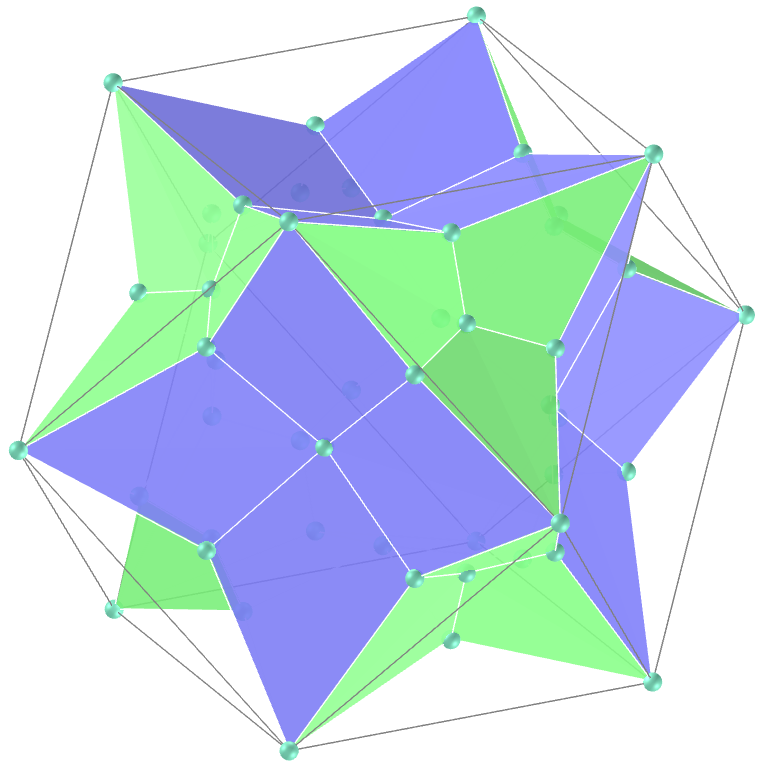
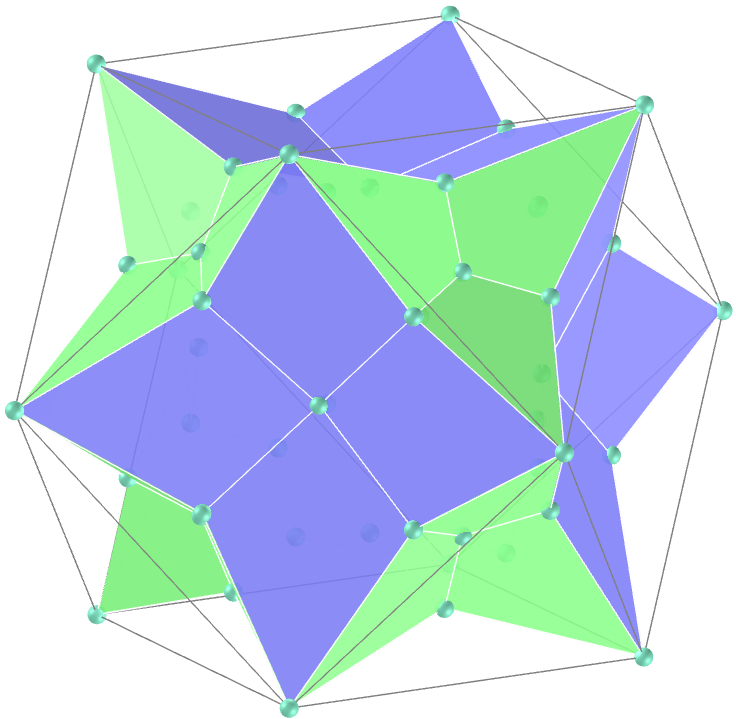
update

diff --git a/kites/vr/Icosidodecahedron.htm b/kites/vr/Icosidodecahedron.htm
@@ -67,73 +67,73 @@
 			<a-sphere mixin='esfera' position='1.130467081 0 0.698667081'></a-sphere>
 			<a-sphere mixin='esfera' position='0.781133541 0.565233541 0.914567081'></a-sphere>
 			<a-sphere mixin='esfera' position='0.2159 0.349333541 1.263900622'></a-sphere>
-			<a-sphere mixin='esfera' position='0.485829606 0 0.786088817'></a-sphere>
+			<a-sphere mixin='esfera' position='0.4965884424 0 0.8034969801'></a-sphere>
 			<a-sphere mixin='esfera' position='-0.2159 0.349333541 1.263900622'></a-sphere>
 			<a-sphere mixin='esfera' position='-0.781133541 0.565233541 0.914567081'></a-sphere>
 			<a-sphere mixin='esfera' position='-1.130467081 0 0.698667081'></a-sphere>
 			<a-sphere mixin='esfera' position='-0.781133541 -0.565233541 0.914567081'></a-sphere>
 			<a-sphere mixin='esfera' position='-0.2159 -0.349333541 1.263900622'></a-sphere>
-			<a-sphere mixin='esfera' position='-0.485829606 -0 0.786088817'></a-sphere>
+			<a-sphere mixin='esfera' position='-0.4965884424 -0 0.8034969801'></a-sphere>
 			<a-sphere mixin='esfera' position='0.2159 0.349333541 -1.263900622'></a-sphere>
 			<a-sphere mixin='esfera' position='0.781133541 0.565233541 -0.914567081'></a-sphere>
 			<a-sphere mixin='esfera' position='1.130467081 0 -0.698667081'></a-sphere>
 			<a-sphere mixin='esfera' position='0.781133541 -0.565233541 -0.914567081'></a-sphere>
 			<a-sphere mixin='esfera' position='0.2159 -0.349333541 -1.263900622'></a-sphere>
-			<a-sphere mixin='esfera' position='0.485829606 -0 -0.786088817'></a-sphere>
+			<a-sphere mixin='esfera' position='0.4965884424 -0 -0.8034969801'></a-sphere>
 			<a-sphere mixin='esfera' position='-0.2159 -0.349333541 -1.263900622'></a-sphere>
 			<a-sphere mixin='esfera' position='-0.781133541 -0.565233541 -0.914567081'></a-sphere>
 			<a-sphere mixin='esfera' position='-1.130467081 0 -0.698667081'></a-sphere>
 			<a-sphere mixin='esfera' position='-0.781133541 0.565233541 -0.914567081'></a-sphere>
 			<a-sphere mixin='esfera' position='-0.2159 0.349333541 -1.263900622'></a-sphere>
-			<a-sphere mixin='esfera' position='-0.485829606 0 -0.786088817'></a-sphere>
+			<a-sphere mixin='esfera' position='-0.4965884424 0 -0.8034969801'></a-sphere>
 			<a-sphere mixin='esfera' position='1.263900622 0.2159 -0.349333541'></a-sphere>
 			<a-sphere mixin='esfera' position='0.914567081 0.781133541 -0.565233541'></a-sphere>
 			<a-sphere mixin='esfera' position='0.698667081 1.130467081 0'></a-sphere>
 			<a-sphere mixin='esfera' position='0.914567081 0.781133541 0.565233541'></a-sphere>
 			<a-sphere mixin='esfera' position='1.263900622 0.2159 0.349333541'></a-sphere>
-			<a-sphere mixin='esfera' position='0.786088817 0.485829606 0'></a-sphere>
+			<a-sphere mixin='esfera' position='0.8034969801 0.4965884424 0'></a-sphere>
 			<a-sphere mixin='esfera' position='1.263900622 -0.2159 0.349333541'></a-sphere>
 			<a-sphere mixin='esfera' position='0.914567081 -0.781133541 0.565233541'></a-sphere>
 			<a-sphere mixin='esfera' position='0.698667081 -1.130467081 0'></a-sphere>
 			<a-sphere mixin='esfera' position='0.914567081 -0.781133541 -0.565233541'></a-sphere>
 			<a-sphere mixin='esfera' position='1.263900622 -0.2159 -0.349333541'></a-sphere>
-			<a-sphere mixin='esfera' position='0.786088817 -0.485829606 -0'></a-sphere>
+			<a-sphere mixin='esfera' position='0.8034969801 -0.4965884424 -0'></a-sphere>
 			<a-sphere mixin='esfera' position='-1.263900622 0.2159 0.349333541'></a-sphere>
 			<a-sphere mixin='esfera' position='-0.914567081 0.781133541 0.565233541'></a-sphere>
 			<a-sphere mixin='esfera' position='-0.698667081 1.130467081 0'></a-sphere>
 			<a-sphere mixin='esfera' position='-0.914567081 0.781133541 -0.565233541'></a-sphere>
 			<a-sphere mixin='esfera' position='-1.263900622 0.2159 -0.349333541'></a-sphere>
-			<a-sphere mixin='esfera' position='-0.786088817 0.485829606 -0'></a-sphere>
+			<a-sphere mixin='esfera' position='-0.8034969801 0.4965884424 -0'></a-sphere>
 			<a-sphere mixin='esfera' position='-1.263900622 -0.2159 -0.349333541'></a-sphere>
 			<a-sphere mixin='esfera' position='-0.914567081 -0.781133541 -0.565233541'></a-sphere>
 			<a-sphere mixin='esfera' position='-0.698667081 -1.130467081 0'></a-sphere>
 			<a-sphere mixin='esfera' position='-0.914567081 -0.781133541 0.565233541'></a-sphere>
 			<a-sphere mixin='esfera' position='-1.263900622 -0.2159 0.349333541'></a-sphere>
-			<a-sphere mixin='esfera' position='-0.786088817 -0.485829606 0'></a-sphere>
+			<a-sphere mixin='esfera' position='-0.8034969801 -0.4965884424 0'></a-sphere>
 			<a-sphere mixin='esfera' position='0.349333541 1.263900622 -0.2159'></a-sphere>
 			<a-sphere mixin='esfera' position='0.565233541 0.914567081 -0.781133541'></a-sphere>
 			<a-sphere mixin='esfera' position='0 0.698667081 -1.130467081'></a-sphere>
 			<a-sphere mixin='esfera' position='-0.565233541 0.914567081 -0.781133541'></a-sphere>
 			<a-sphere mixin='esfera' position='-0.349333541 1.263900622 -0.2159'></a-sphere>
-			<a-sphere mixin='esfera' position='-0 0.786088817 -0.485829606'></a-sphere>
+			<a-sphere mixin='esfera' position='-0 0.8034969801 -0.4965884424'></a-sphere>
 			<a-sphere mixin='esfera' position='-0.349333541 1.263900622 0.2159'></a-sphere>
 			<a-sphere mixin='esfera' position='-0.565233541 0.914567081 0.781133541'></a-sphere>
 			<a-sphere mixin='esfera' position='0 0.698667081 1.130467081'></a-sphere>
 			<a-sphere mixin='esfera' position='0.565233541 0.914567081 0.781133541'></a-sphere>
 			<a-sphere mixin='esfera' position='0.349333541 1.263900622 0.2159'></a-sphere>
-			<a-sphere mixin='esfera' position='0 0.786088817 0.485829606'></a-sphere>
+			<a-sphere mixin='esfera' position='0 0.8034969801 0.4965884424'></a-sphere>
 			<a-sphere mixin='esfera' position='0.349333541 -1.263900622 0.2159'></a-sphere>
 			<a-sphere mixin='esfera' position='0.565233541 -0.914567081 0.781133541'></a-sphere>
 			<a-sphere mixin='esfera' position='0 -0.698667081 1.130467081'></a-sphere>
 			<a-sphere mixin='esfera' position='-0.565233541 -0.914567081 0.781133541'></a-sphere>
 			<a-sphere mixin='esfera' position='-0.349333541 -1.263900622 0.2159'></a-sphere>
-			<a-sphere mixin='esfera' position='-0 -0.786088817 0.485829606'></a-sphere>
+			<a-sphere mixin='esfera' position='-0 -0.8034969801 0.4965884424'></a-sphere>
 			<a-sphere mixin='esfera' position='-0.349333541 -1.263900622 -0.2159'></a-sphere>
 			<a-sphere mixin='esfera' position='-0.565233541 -0.914567081 -0.781133541'></a-sphere>
 			<a-sphere mixin='esfera' position='0 -0.698667081 -1.130467081'></a-sphere>
 			<a-sphere mixin='esfera' position='0.565233541 -0.914567081 -0.781133541'></a-sphere>
 			<a-sphere mixin='esfera' position='0.349333541 -1.263900622 -0.2159'></a-sphere>
-			<a-sphere mixin='esfera' position='0 -0.786088817 -0.485829606'></a-sphere>
+			<a-sphere mixin='esfera' position='0 -0.8034969801 -0.4965884424'></a-sphere>
 			<a-sphere mixin='esfera' position='-0.2159 -0.349333541 1.263900622'></a-sphere>
 			<a-sphere mixin='esfera' position='0 -0.698667081 1.130467081'></a-sphere>
 			<a-sphere mixin='esfera' position='0.2159 -0.349333541 1.263900622'></a-sphere>
@@ -181,35 +181,35 @@
 			<a-sphere mixin='esfera' position='0.781133541 0.565233541 0.914567081'></a-sphere>
 			<a-sphere mixin='esfera' position='0.914567081 0.781133541 0.565233541'></a-sphere>
 			<a-sphere mixin='esfera' position='0.565233541 0.914567081 0.781133541'></a-sphere>
-			<a-sphere mixin='esfera' position='0.716643174 0.716643174 0.716643174'></a-sphere>
+			<a-sphere mixin='esfera' position='0.7208692014 0.7208692014 0.7208692014'></a-sphere>
 			<a-sphere mixin='esfera' position='0.565233541 0.914567081 -0.781133541'></a-sphere>
 			<a-sphere mixin='esfera' position='0.914567081 0.781133541 -0.565233541'></a-sphere>
 			<a-sphere mixin='esfera' position='0.781133541 0.565233541 -0.914567081'></a-sphere>
-			<a-sphere mixin='esfera' position='0.716643174 0.716643174 -0.716643174'></a-sphere>
+			<a-sphere mixin='esfera' position='0.7208692014 0.7208692014 -0.7208692014'></a-sphere>
 			<a-sphere mixin='esfera' position='0.565233541 -0.914567081 0.781133541'></a-sphere>
 			<a-sphere mixin='esfera' position='0.914567081 -0.781133541 0.565233541'></a-sphere>
 			<a-sphere mixin='esfera' position='0.781133541 -0.565233541 0.914567081'></a-sphere>
-			<a-sphere mixin='esfera' position='0.716643174 -0.716643174 0.716643174'></a-sphere>
+			<a-sphere mixin='esfera' position='0.7208692014 -0.7208692014 0.7208692014'></a-sphere>
 			<a-sphere mixin='esfera' position='0.781133541 -0.565233541 -0.914567081'></a-sphere>
 			<a-sphere mixin='esfera' position='0.914567081 -0.781133541 -0.565233541'></a-sphere>
 			<a-sphere mixin='esfera' position='0.565233541 -0.914567081 -0.781133541'></a-sphere>
-			<a-sphere mixin='esfera' position='0.716643174 -0.716643174 -0.716643174'></a-sphere>
+			<a-sphere mixin='esfera' position='0.7208692014 -0.7208692014 -0.7208692014'></a-sphere>
 			<a-sphere mixin='esfera' position='-0.565233541 0.914567081 0.781133541'></a-sphere>
 			<a-sphere mixin='esfera' position='-0.914567081 0.781133541 0.565233541'></a-sphere>
 			<a-sphere mixin='esfera' position='-0.781133541 0.565233541 0.914567081'></a-sphere>
-			<a-sphere mixin='esfera' position='-0.716643174 0.716643174 0.716643174'></a-sphere>
+			<a-sphere mixin='esfera' position='-0.7208692014 0.7208692014 0.7208692014'></a-sphere>
 			<a-sphere mixin='esfera' position='-0.781133541 0.565233541 -0.914567081'></a-sphere>
 			<a-sphere mixin='esfera' position='-0.914567081 0.781133541 -0.565233541'></a-sphere>
 			<a-sphere mixin='esfera' position='-0.565233541 0.914567081 -0.781133541'></a-sphere>
-			<a-sphere mixin='esfera' position='-0.716643174 0.716643174 -0.716643174'></a-sphere>
+			<a-sphere mixin='esfera' position='-0.7208692014 0.7208692014 -0.7208692014'></a-sphere>
 			<a-sphere mixin='esfera' position='-0.781133541 -0.565233541 0.914567081'></a-sphere>
 			<a-sphere mixin='esfera' position='-0.914567081 -0.781133541 0.565233541'></a-sphere>
 			<a-sphere mixin='esfera' position='-0.565233541 -0.914567081 0.781133541'></a-sphere>
-			<a-sphere mixin='esfera' position='-0.716643174 -0.716643174 0.716643174'></a-sphere>
+			<a-sphere mixin='esfera' position='-0.7208692014 -0.7208692014 0.7208692014'></a-sphere>
 			<a-sphere mixin='esfera' position='-0.565233541 -0.914567081 -0.781133541'></a-sphere>
 			<a-sphere mixin='esfera' position='-0.914567081 -0.781133541 -0.565233541'></a-sphere>
 			<a-sphere mixin='esfera' position='-0.781133541 -0.565233541 -0.914567081'></a-sphere>
-			<a-sphere mixin='esfera' position='-0.716643174 -0.716643174 -0.716643174'></a-sphere>
+			<a-sphere mixin='esfera' position='-0.7208692014 -0.7208692014 -0.7208692014'></a-sphere>
 		</a-entity>
 		
 		<a-box mixin="piso" class="piso" visible="false" position="0 -1.5 0"></a-box>
